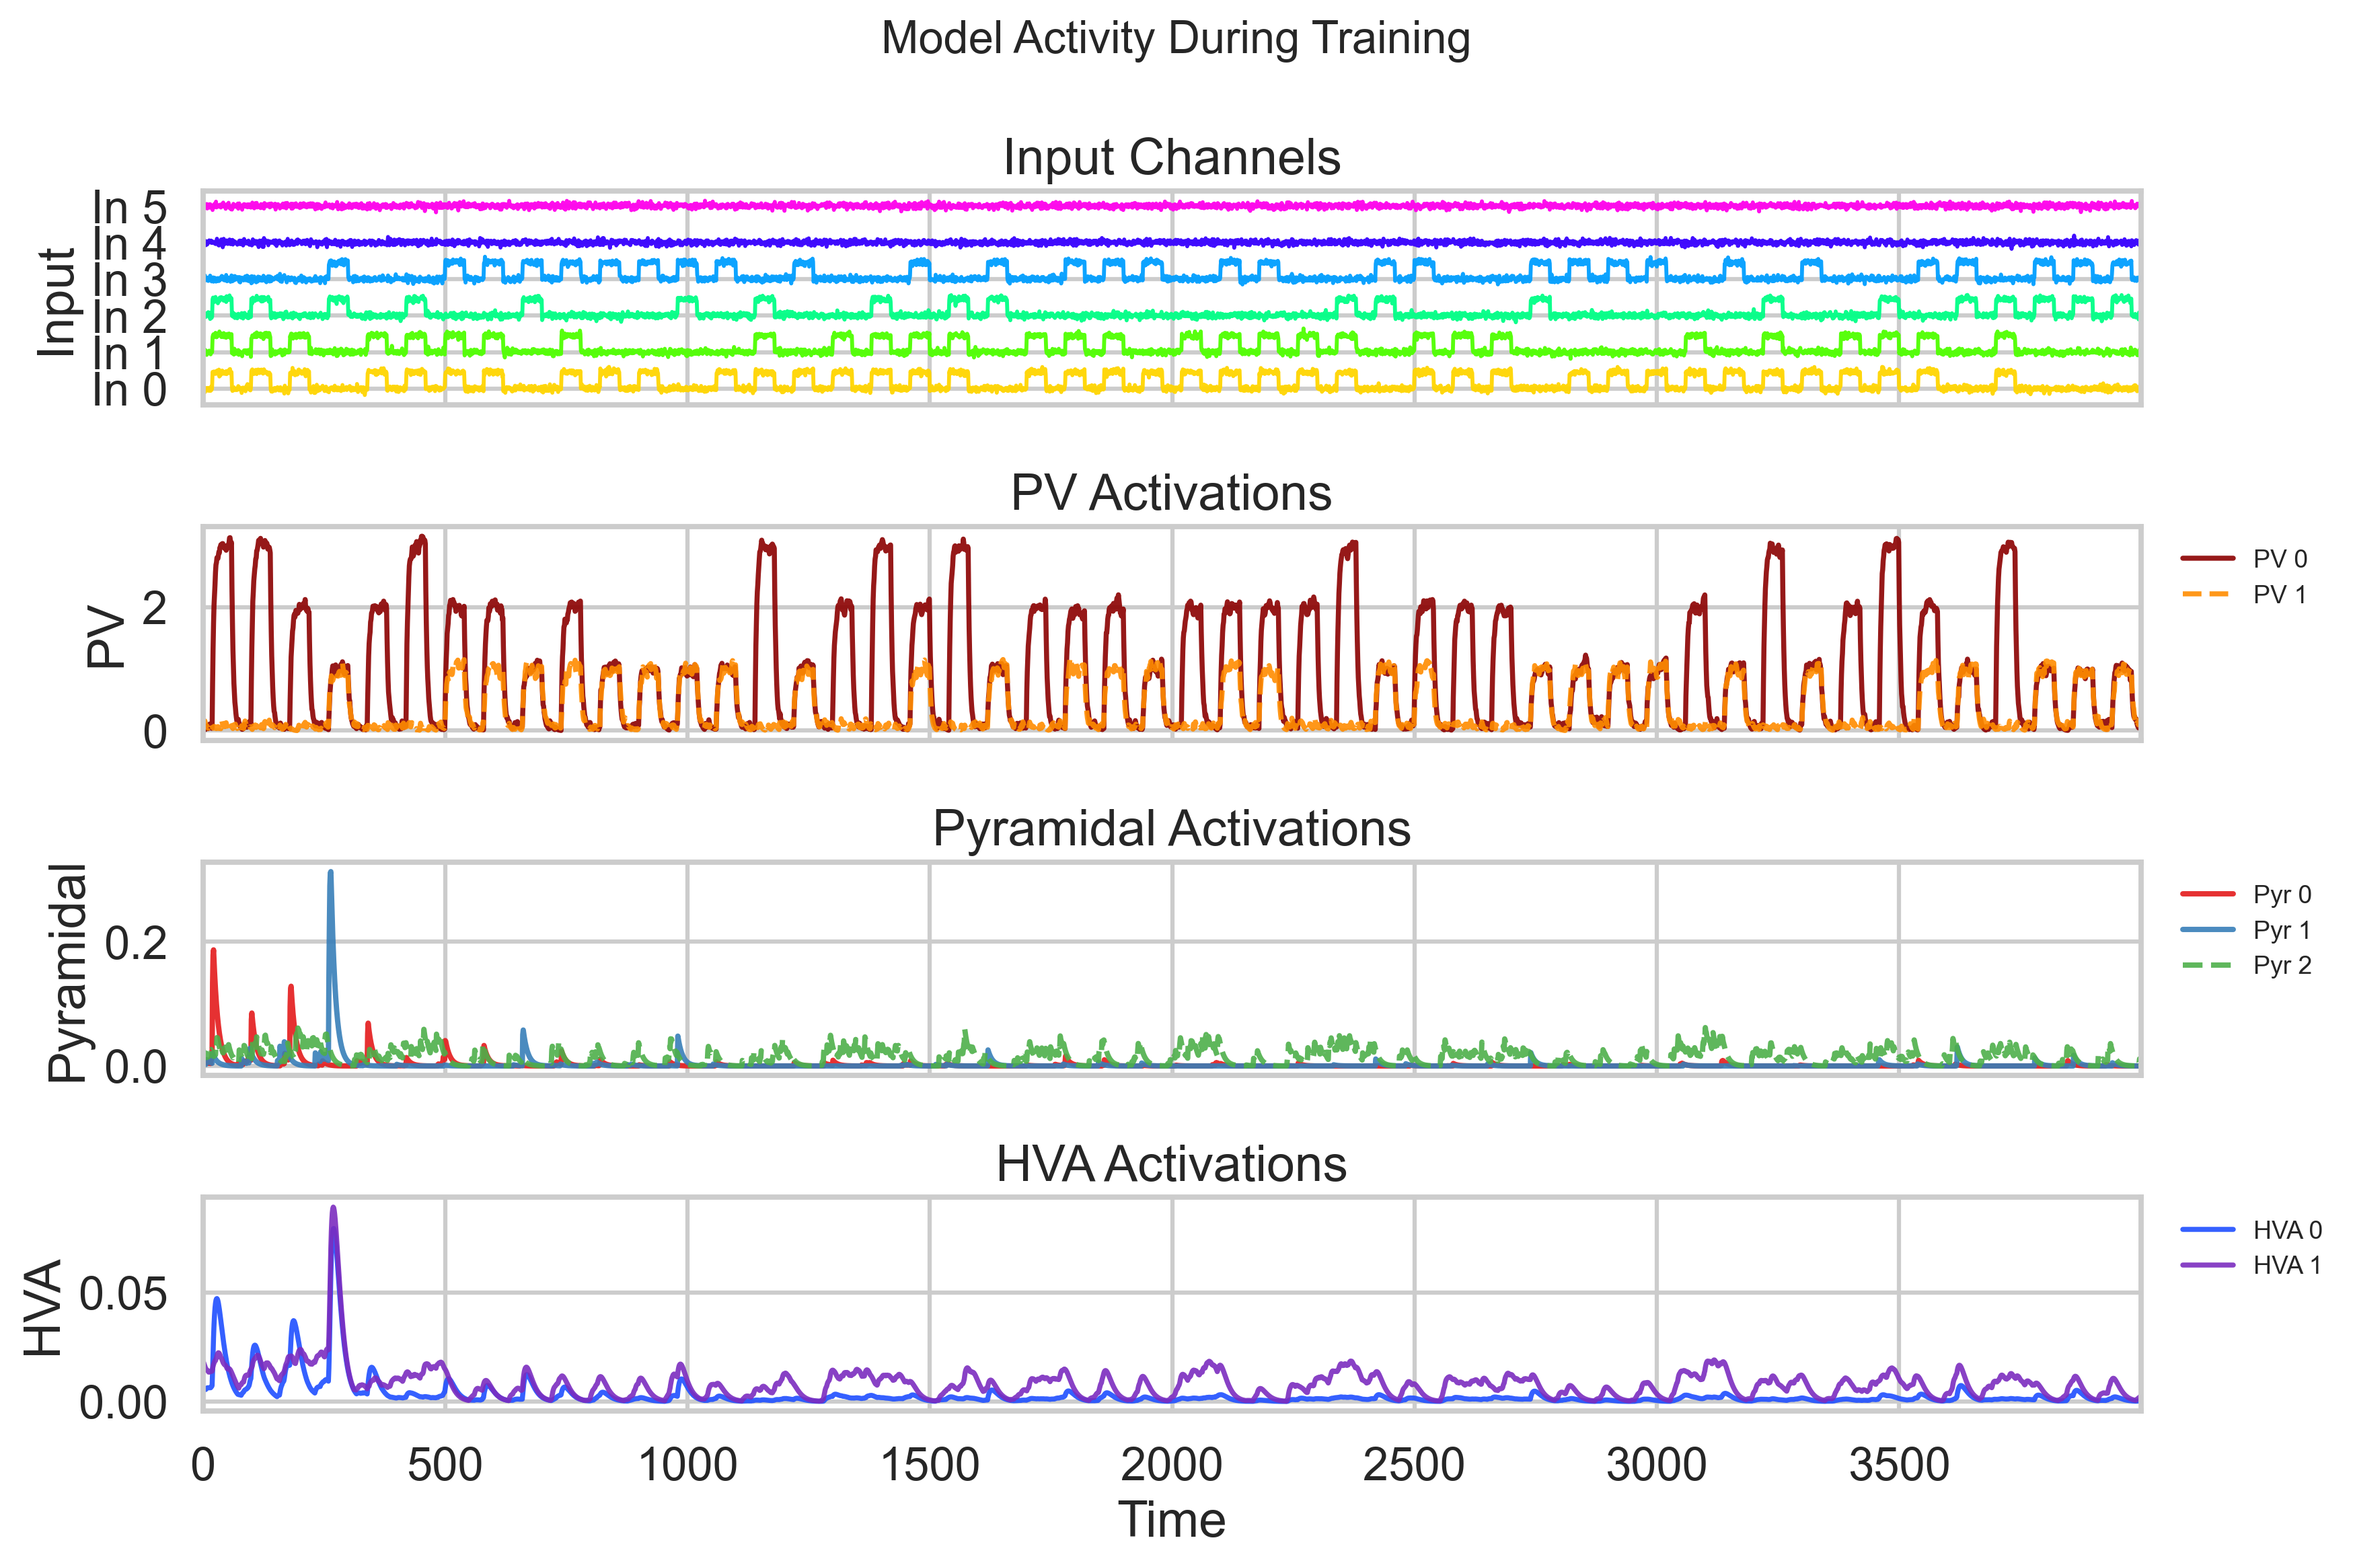
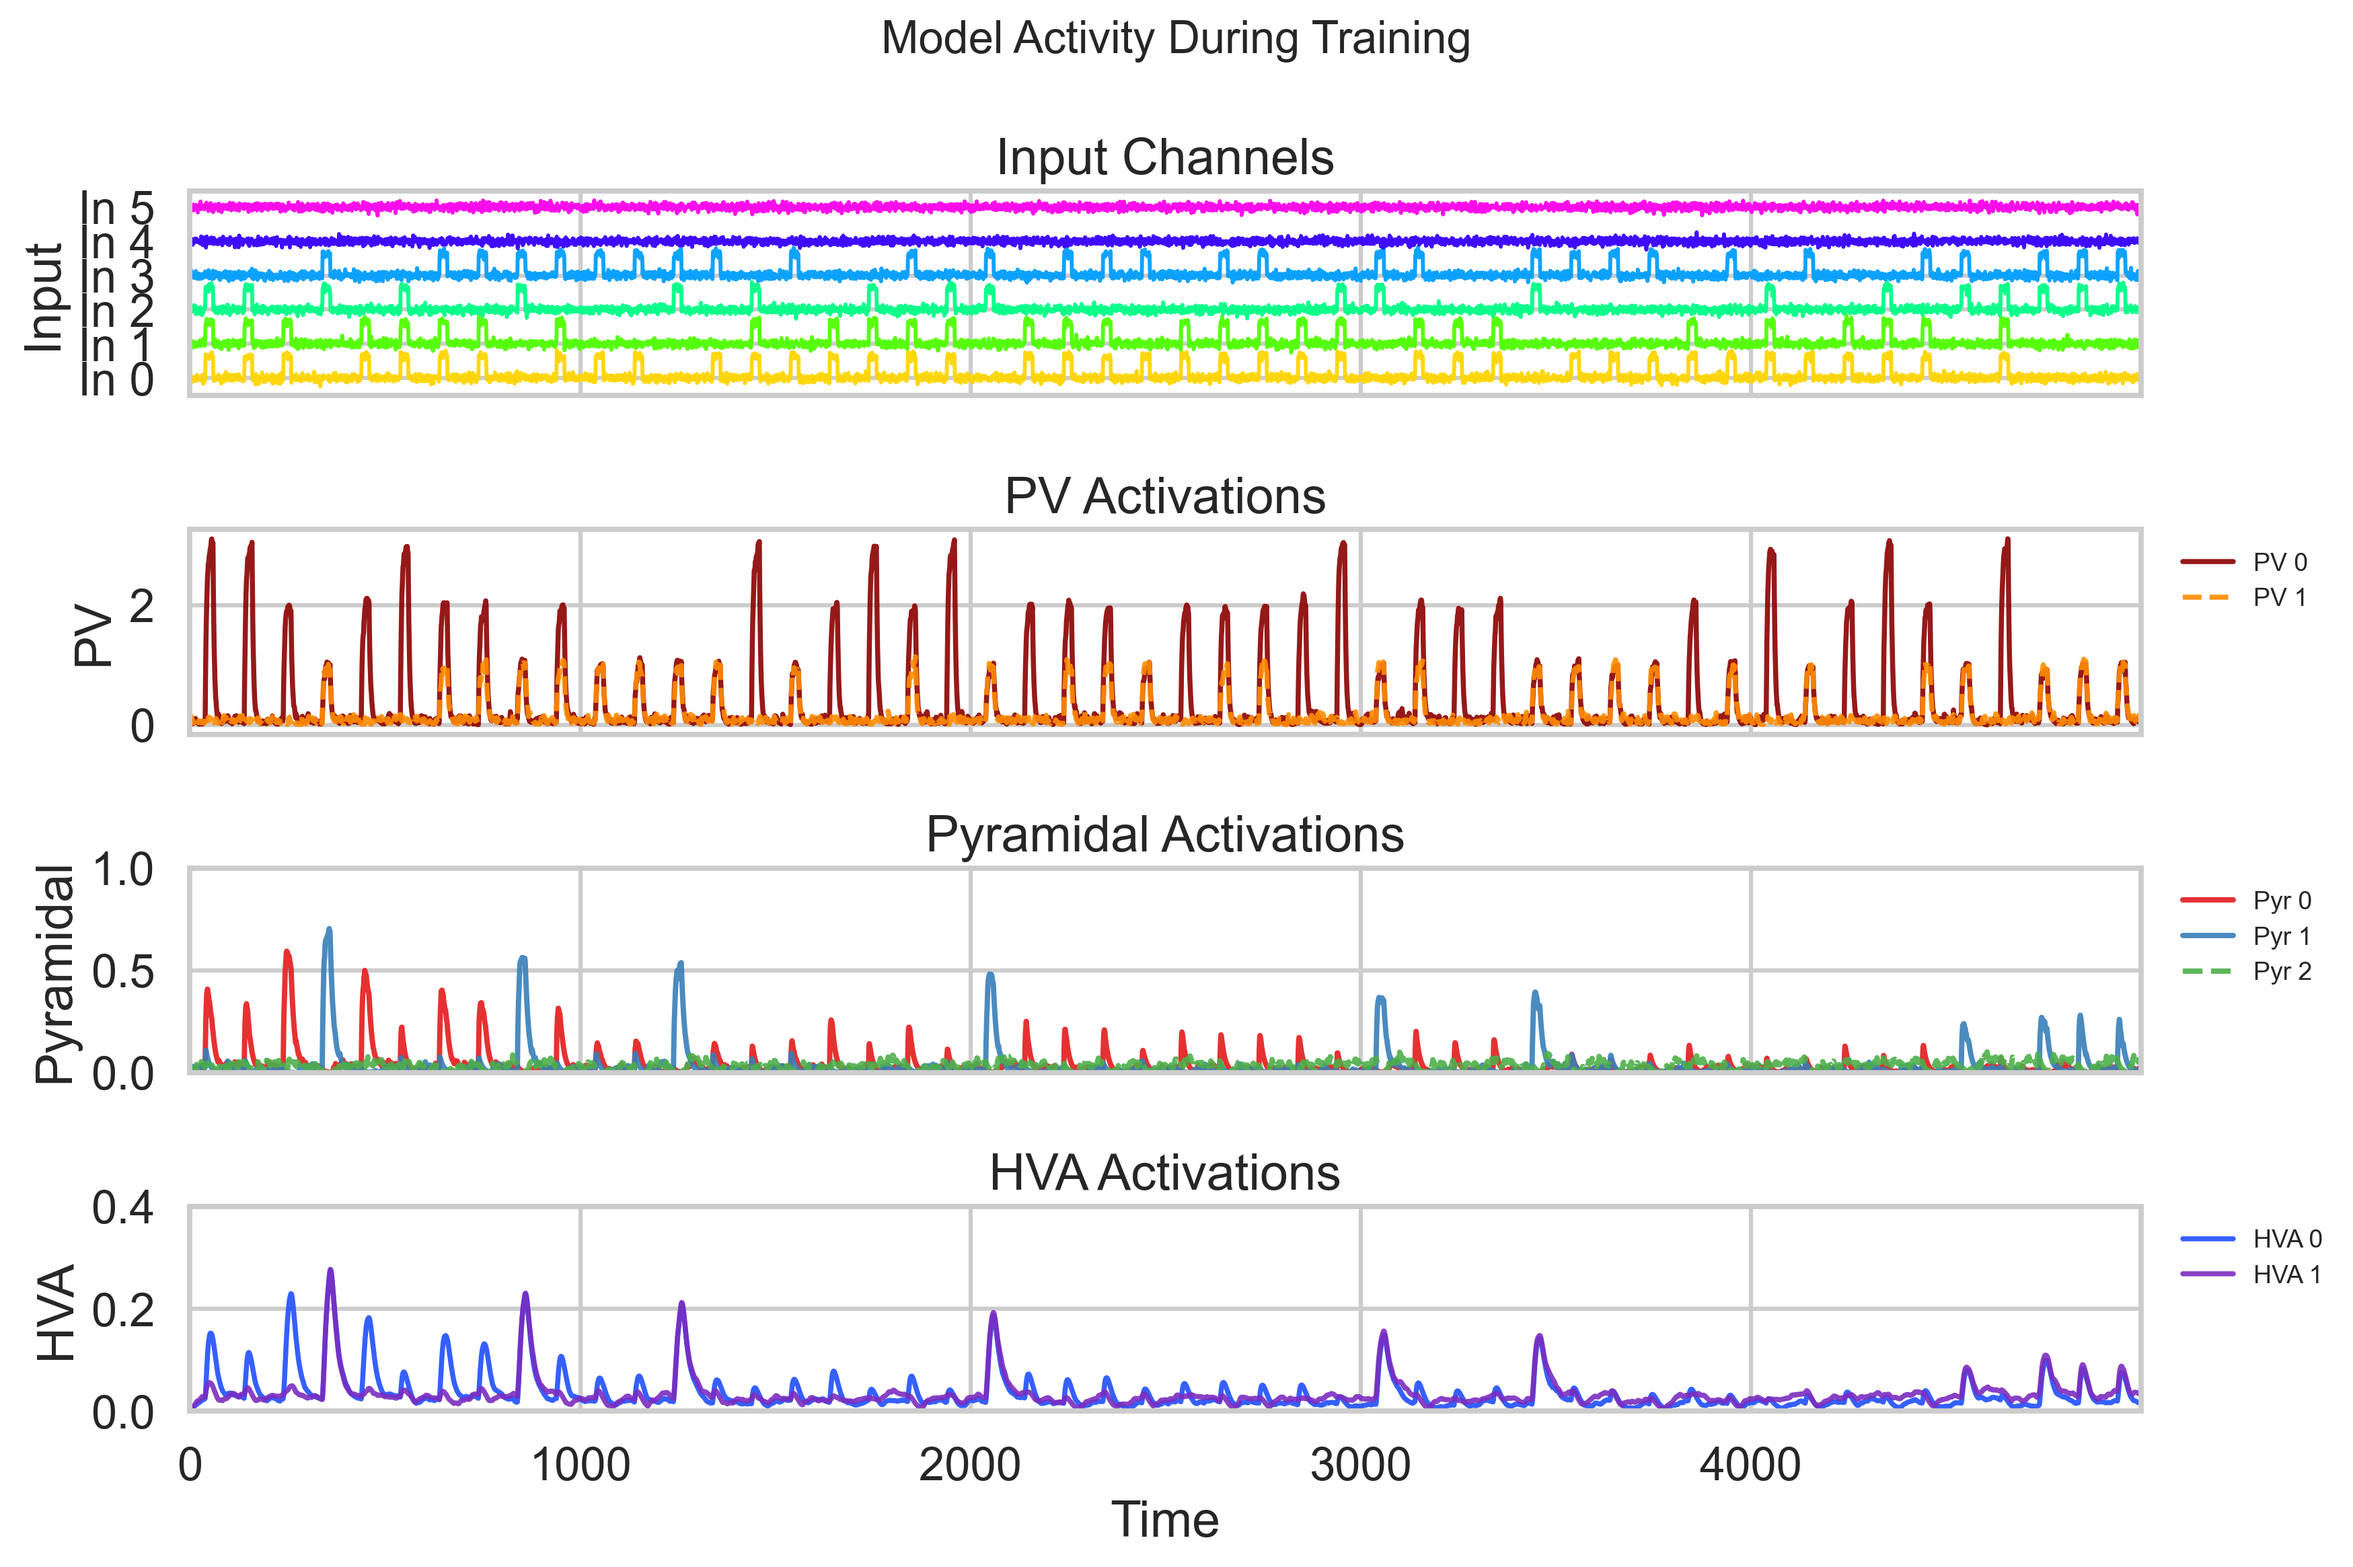
[minimal model]: promising first results

diff --git a/cc/minimal/minimal.py b/cc/minimal/minimal.py
@@ -8,7 +8,7 @@ class Minimal(torch.nn.Module):
                  n_pv:int = 2,
                  n_hva:int = 2,
                  HVA_tuning:torch.Tensor | None = None,
-                 cell_type_alphas:dict[str, float] = {'PV': 0.25, 'Pyramidal': 0.1}): # PV: 'fast spiking'
+                 cell_type_alphas:dict[str: float] = {'PV': 0.25, 'Pyramidal': 0.1}): # PV: 'fast spiking'
         '''
         NOTE: Currently PV cells perform feedforward inhibition, instead of lateral inhibition
         TODO: implement lateral inhibition by PVs, and update receptive fields and masks accordingly
@@ -38,7 +38,7 @@ class Minimal(torch.nn.Module):
         # Layer 1 W_FFy: Feedforward Input-Pyramidal neuron (Y) weights (Y x I)
         self.W_FFy = torch.nn.Parameter(torch.ones(n_pyramidal, n_inputs), requires_grad=False)
         # Layer 1 W_Iy: Inhibitory PV-Pyramidal neuron weights (Y x PV)
-        self.W_Iy = torch.nn.Parameter(torch.ones(n_pyramidal, n_pv), requires_grad=False)
+        self.W_Iy = torch.nn.Parameter(0.6*torch.ones(n_pyramidal, n_pv), requires_grad=False)
         # Layer 2 W_FFh: Feedforward Pyramidal-HVA neuron weights (HVA x Y)
         if HVA_tuning is not None: # initialize with specific tuning pattern
             assert HVA_tuning.shape == (n_hva, n_pyramidal), "HVA_tuning must have shape (n_hva, n_pyramidal)"
@@ -46,7 +46,7 @@ class Minimal(torch.nn.Module):
         else: # initialize with random weights
             self.W_FFh = torch.nn.Parameter(torch.ones(n_hva, n_pyramidal), requires_grad=False)
         # Layer 2 W_FBy: Feedback HVA-Pyramidal neuron weights (Y x HVA)
-        self.W_FBy = torch.nn.Parameter(0.1*torch.ones(n_pyramidal, n_hva), requires_grad=False)
+        self.W_FBy = torch.nn.Parameter(0.01*torch.ones(n_pyramidal, n_hva), requires_grad=False)
 
         # Create boolean masks for local weights based on receptive fields
         # Mask for W_FFpv (PV x I): each PV neuron connects to inputs in its RF
@@ -69,9 +69,9 @@ class Minimal(torch.nn.Module):
         self.ema_hva = EMA(shape=self.n_hva, alpha=cell_type_alphas['Pyramidal'])
 
         # learning rates for local learning rules
-        self.lr_Iy = torch.nn.Parameter(torch.tensor(0.005))  # learning rate for inhibitory PV-Pyramidal weights
-        self.lr_FFy = torch.nn.Parameter(torch.tensor(0.1))  # learning rate for feedforward Input-Pyramidal weights
-        self.lr_FBy = torch.nn.Parameter(torch.tensor(0.05))  # learning rate for feedback HVA-Pyramidal weights
+        self.lr_Iy = torch.nn.Parameter(torch.tensor(0.0025))  # learning rate for inhibitory PV-Pyramidal weights
+        self.lr_FFy = torch.nn.Parameter(torch.tensor(0.0035))  # learning rate for feedforward Input-Pyramidal weights
+        self.lr_FBy = torch.nn.Parameter(torch.tensor(0.005))  # learning rate for feedback HVA-Pyramidal weights
 
     def forward(self, I:torch.Tensor, train:bool = False) -> torch.Tensor:
         # To store pyramidal, PV, and HVA activations over time
@@ -97,6 +97,7 @@ class Minimal(torch.nn.Module):
             out['Pyramidal'][:, t] = pyramidal  # store all pyramidal activations
             out['PV'][:, t] = pv  # store all PV activations
             out['HVA'][:, t] = hva  # store all HVA activations
+        self._reset_state()
         return out
 
     @torch.no_grad()
@@ -115,11 +116,13 @@ class Minimal(torch.nn.Module):
         '''
         # Hebbian delta W_Iy (masked)
         self.W_Iy += self.lr_Iy * torch.outer(pyramidal, pv) * self.mask_Iy
+        
         # Anti-Hebbian delta W_FFy (masked)
         self.W_FFy -= self.lr_FFy * torch.outer(pyramidal, stim) * self.mask_FFy
+        
         # Hebbian delta W_FBy (masked)
-        context = torch.outer(torch.ones_like(pyramidal), hva) # general context
-        context += torch.outer(pyramidal, hva) # synapse-specific
+        context = 0.8 * torch.outer(torch.ones_like(pyramidal), hva) # general context
+        context += 0.2 * torch.outer(pyramidal, hva) # synapse-specific context
         self.W_FBy += self.lr_FBy * context * self.mask_FBy
 
         
@@ -140,3 +143,8 @@ class Minimal(torch.nn.Module):
         for i in range(n_out):
             mask[i, RF_indices[i]] = True
         return mask
+    
+    def _reset_state(self):
+        self.ema_pv.reset_state()
+        self.ema_pyramidal.reset_state()
+        self.ema_hva.reset_state()

diff --git a/cc/minimal/utils.py b/cc/minimal/utils.py
@@ -7,6 +7,8 @@ import torch
 class EMA(torch.nn.Module):
     '''
     EMA = Discretized Leaky Integrator
+        Low alpha: slower integration, more history dependence, more decay
+        High alpha: faster integration, more current input dependence, less decay
     '''
     def __init__(self, shape:tuple, alpha:float = 0.1):
         super().__init__()
@@ -16,6 +18,9 @@ class EMA(torch.nn.Module):
     def forward(self, x:torch.Tensor) -> torch.Tensor:
         self.ema = (1 - self.alpha) * self.ema + self.alpha * x
         return self.ema
+    
+    def reset_state(self):
+        self.ema.zero_()
 
 def nonnegative(x:torch.Tensor)->torch.Tensor:
     '''
@@ -114,6 +119,7 @@ def plot_out(out: dict, I: torch.Tensor | None = None,
             label=f"Pyr {i}",
         )
     axes[row].set_ylabel("Pyramidal")
+    axes[row].set_ylim(bottom=0, top=1)
     axes[row].set_title("Pyramidal Activations")
     axes[row].legend(loc="upper left", bbox_to_anchor=(1.01, 1), fontsize=9, ncol=1, frameon=False)
     row += 1
@@ -122,6 +128,7 @@ def plot_out(out: dict, I: torch.Tensor | None = None,
     for i in range(hva.shape[0]):
         axes[row].plot(time, hva[i], color=hva_colors[i], alpha=0.9, linewidth=1.8, label=f"HVA {i}")
     axes[row].set_ylabel("HVA")
+    axes[row].set_ylim(bottom=0, top=0.4)
     axes[row].set_title("HVA Activations")
     axes[row].set_xlabel("Time")
     axes[row].legend(loc="upper left", bbox_to_anchor=(1.01, 1), fontsize=9, ncol=1, frameon=False)

diff --git a/cc/minimal/data.py b/cc/minimal/data.py
@@ -7,13 +7,13 @@ def get_minimal_data(*trial_patterns:list[list[int]],
                     n_inputs:int = 6, to_tensor:bool = True,
                     noise_level:float | None = None
                     )->list|torch.Tensor:
-    zeros = torch.zeros(trial_length//4, n_inputs)
+    zeros = torch.zeros(2*trial_length//5, n_inputs)
     n_patterns = len(trial_patterns)
     trials = []
     for i in range(n_trials):
         pattern = trial_patterns[i % n_patterns]
         if not isinstance(pattern, torch.Tensor): pattern = torch.tensor(pattern)
-        trials.append(torch.cat((zeros, pattern.tile(trial_length//2, 1), zeros), dim=0))
+        trials.append(torch.cat((zeros, pattern.tile(trial_length//5, 1), zeros), dim=0))
     if to_tensor:
         trials = torch.cat(trials, dim=0)
         if noise_level is not None:

diff --git a/cc/minimal/experiment.py b/cc/minimal/experiment.py
@@ -16,7 +16,7 @@ def test_minimal():
     output = model(I)
     plot_out(output, I)
 
-def experiment(train_trials:list[int], trial_length:int = 80, noise_level:float = 0.1):
+def experiment(train_trials:list[int], trial_length:int = 80, training_trials_per_type:int = 10, noise_level:float = 0.1):
     '''
     Based selection of training trials; 
         different connections will become adapted / strengthened
@@ -54,4 +54,4 @@ def experiment(train_trials:list[int], trial_length:int = 80, noise_level:float 
 if __name__ == "__main__":
     # test_minimal()
     # train on left-ish patterns (expect stimulus more on the left)
-    experiment(train_trials=[1, 2, 6, 10, 11])
+    experiment(train_trials=[1, 2, 6, 10, 11], noise_level=0.1, trial_length=100, training_trials_per_type=20)
